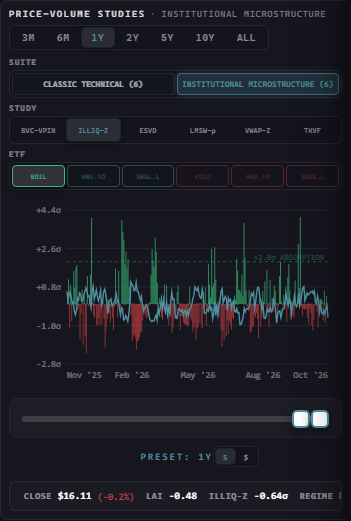
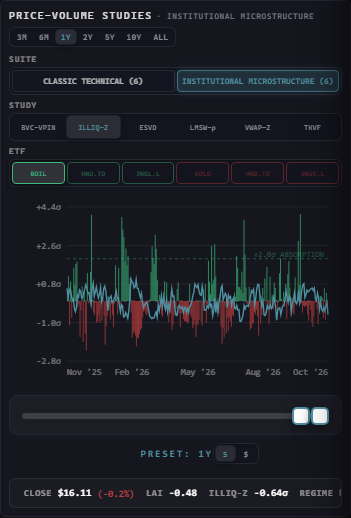
Align Price-Volume Studies timeframe selectors beside title on single row

diff --git a/docs/css/signals.css b/docs/css/signals.css
@@ -1959,16 +1959,23 @@
     justify-content: space-between;
     align-items: center;
     gap: 8px;
-    flex-wrap: wrap;
-    row-gap: 6px;
+    flex-wrap: nowrap;
     margin-bottom: 8px;
 }
 .vs-head h3 {
     margin-bottom: 0;
+    white-space: nowrap;
     display: flex;
     align-items: baseline;
-    flex-wrap: wrap;
     gap: 4px;
+    font-size: 0.74rem;
+    letter-spacing: 1.1px;
+    min-width: 0;
+}
+.vs-head h3 #vs-subtitle {
+    font-size: 0.58rem;
+    letter-spacing: 0.5px;
+    white-space: nowrap;
 }
 .tab-group#vs-range-tabs {
     display: inline-flex;
@@ -1976,6 +1983,13 @@
     margin: 0;
     padding: 2px;
     margin-left: auto;
+}
+.tab-group#vs-range-tabs .tab-btn {
+    padding: 2px 5px;
+    font-size: 0.58rem;
+    font-weight: 700;
+    letter-spacing: 0.2px;
+    white-space: nowrap;
 }
 .vs-range-labels-row {
     display: flex;

diff --git a/tools/test_vs_header.py b/tools/test_vs_header.py
@@ -1,0 +1,57 @@
+import os
+from playwright.sync_api import sync_playwright
+
+def test_header():
+    with sync_playwright() as p:
+        browser = p.chromium.launch()
+        page = browser.new_page(viewport={'width': 1440, 'height': 900})
+        html_path = os.path.abspath('docs/index.html').replace('\\', '/')
+        page.goto('file:///' + html_path)
+        page.wait_for_timeout(2000)
+        
+        # Check classic suite
+        head_box = page.locator('.vs-head').bounding_box()
+        h3_box = page.locator('.vs-head h3').bounding_box()
+        tabs_box = page.locator('#vs-range-tabs').bounding_box()
+        
+        print('Classic Suite:')
+        print('  vs-head:', head_box)
+        print('  h3:', h3_box)
+        print('  tabs:', tabs_box)
+        diff_y = abs(h3_box['y'] - tabs_box['y'])
+        print(f'  Y difference: {diff_y:.2f}px')
+        assert diff_y < 8, f"Selectors should be beside title on desktop, but diff_y is {diff_y}px"
+        
+        # Test switching to Microstructure suite
+        micro_btn = page.locator('#vs-suite-tabs button[data-suite="micro"]')
+        micro_btn.click()
+        page.wait_for_timeout(500)
+        
+        h3_box_micro = page.locator('.vs-head h3').bounding_box()
+        tabs_box_micro = page.locator('#vs-range-tabs').bounding_box()
+        print('Microstructure Suite:')
+        print('  h3:', h3_box_micro)
+        print('  tabs:', tabs_box_micro)
+        diff_y_micro = abs(h3_box_micro['y'] - tabs_box_micro['y'])
+        print(f'  Y difference: {diff_y_micro:.2f}px')
+        assert diff_y_micro < 8, f"Microstructure suite selectors should be beside title, but diff_y is {diff_y_micro}px"
+        
+        # Take screenshot of vs-panel
+        page.locator('#vs-panel').screenshot(path='test_vs_panel_desktop.png')
+        print('Captured test_vs_panel_desktop.png')
+        
+        # Test multiple viewport widths
+        for width in [1920, 1600, 1440, 1366, 1280, 1024]:
+            page.set_viewport_size({'width': width, 'height': 900})
+            page.wait_for_timeout(400)
+            h = page.locator('.vs-head h3').bounding_box()
+            t = page.locator('#vs-range-tabs').bounding_box()
+            d = abs(h['y'] - t['y'])
+            print(f'Viewport {width}px -> h3 Y: {h["y"]:.1f}, tabs Y: {t["y"]:.1f}, diff: {d:.1f}px (Single row: {d < 8})')
+            assert d < 8, f"Width {width}px failed single-row layout"
+
+        browser.close()
+        print('ALL TESTS PASSED!')
+
+if __name__ == '__main__':
+    test_header()
